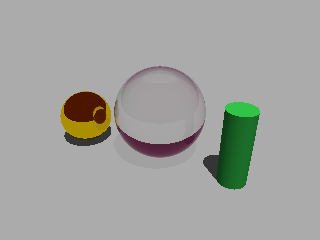
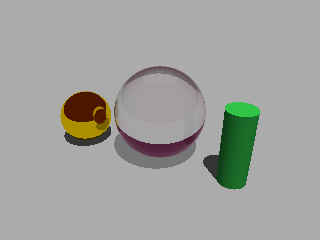
fix: without caustics, the shadow of glass keeps only the light that stays in it
Without caustics a shadow ray is a straight line, so the light a refractive object bends away
still landed in its shadow: on menger's level-2 glass sponge with a directional light a shadow ray
let 0.97 of the light an opaque sponge blocks into the shadow footprint (plain shadows) or 0.65
(transparent shadows), where pbrt-v4 returns 0.39. With caustics the photons carry that light; the
no-caustics shadow now approximates it.

A shadow ray to a light (not ambient occlusion, not the sky of an environment map) with caustics
off now passes glass, meaning a refractive (IOR above 1.05) object that is neither opaque nor a thin
film, in the shadow any-hit programs of spheres and triangle meshes, with plain shadows too, and is
charged the Fresnel and absorption losses of the transparent-shadows model and, once per ray,
GlassShadowConstants::RETENTION = 0.6 of what is left, the share that stays in the shadow. Without
transparent shadows the absorption is the mean over the channels (no colour, as before); a non-
refractive film or tint, an opaque object, caustics-on rays and cones, cylinders and curves keep their
shadows.

The constant is measured against pbrt-v4, not derived: its footprint fraction is 0.60 and 0.59 of the
straight line's on a level-2 sponge and a cube, 0.82 for a sphere. A sphere is a lens, its shadow
depends on where the focus falls relative to the floor (footprint 0.07 to 0.76 over three floor
[…]

Changed region(s): [[0.3438, 0.5542, 0.625, 0.7292], [0.375, 0.2625, 0.625, 0.3792], [0.2812, 0.4958, 0.3438, 0.5542]]

diff --git a/src/main/native/include/OptiXData.h b/src/main/native/include/OptiXData.h
@@ -44,6 +44,7 @@ namespace RayTracingConstants {
     constexpr float CONTINUATION_RAY_OFFSET = 0.001f;  // Offset to avoid self-intersection
     constexpr float SHADOW_RAY_OFFSET = 0.001f;        // Offset for shadow ray origin (avoid shadow acne)
     constexpr float SHADOW_MIN_TRANSMISSION = 1e-6f;   // Keeps a surface's optical depth finite
+    constexpr float SHADOW_OPAQUE_ALPHA_EPSILON = 1e-4f; // A material alpha this close to 1 casts a full shadow
     constexpr float FULLY_PRESENT_COVERAGE = 1.0f - 1e-4f; // From here an instance's coverage counts as 1 (opaque)
 
     // Color conversion (float [0,1] to byte [0,255])
@@ -154,6 +155,16 @@ namespace MaterialConstants {
     constexpr float IOR_REFRACTIVE_MIN = 1.05f;
 }
 
+// A refractive object's shadow without caustics (optix-jni#132)
+namespace GlassShadowConstants {
+    // The share of the light a refractive object lets through that stays inside its shadow;
+    // the rest is bent out of it, where a straight shadow ray cannot put it (caustics would).
+    // Measured against pbrt-v4: 0.60 on a level-2 glass sponge, 0.59 on a cube, 0.08 to 0.82 on a
+    // sphere (a lens: where its focus falls decides). Fixed, not per material: accepted by the user
+    // 2026-11-19 (lenses use caustics). See CHANGELOG, Unreleased.
+    constexpr float RETENTION = 0.6f;
+}
+
 // Default PBR material values, for surfaces given no material
 namespace MaterialDefaults {
     constexpr float DEFAULT_ROUGHNESS = 0.5f;  // Default middle roughness (0=mirror, 1=diffuse)
@@ -183,6 +194,10 @@ namespace SBTConstants {
 
     // Payload 3 of a shadow ray: flags, set by the tracer, read by the shadow programs
     constexpr unsigned int SHADOW_FLAG_PHOTON_LIGHT = 1u;  // The ray goes to the light caustic photons are emitted from
+    // The ray goes to a light with caustics off: glass bends part of that light out of the shadow
+    // (optix-jni#132), so a refractive occluder is charged for it (GlassShadowConstants::RETENTION)
+    constexpr unsigned int SHADOW_FLAG_GLASS_BENDS_LIGHT = 2u;
+    constexpr unsigned int SHADOW_FLAG_CROSSED_GLASS = 4u;  // Set by a shadow any-hit that crossed such glass
 
     // SBT indices
     constexpr unsigned int MISS_PRIMARY = 0;               // Primary ray miss shader

diff --git a/CHANGELOG.md b/CHANGELOG.md
@@ -5,6 +5,27 @@ All notable changes to this project will be documented in this file.
 The format is based on [Keep a Changelog](https://keepachangelog.com/en/1.0.0/),
 and this project adheres to [Semantic Versioning](https://semver.org/spec/v2.0.0.html).
 
+## [Unreleased]
+
+### Changed
+
+- With caustics off, the shadow of a refractive object (IOR above 1.05) is the physical one, not
+  the straight line's (lene/optix-jni#132). A shadow ray let 0.97 of the light an opaque level-2
+  glass sponge blocks through (plain shadows) or 0.65 (transparent shadows) where pbrt-v4 returns
+  0.39 into the shadow footprint, because the light glass bends away landed in the shadow anyway.
+  A shadow ray to a light now passes refractive objects (plain shadows too: the any-hit programs of
+  spheres and triangle meshes) and is charged their Fresnel and absorption losses, the transparent
+  shadows model, and once `GlassShadowConstants::RETENTION` = 0.6 of what is left: the share that
+  stays in the shadow; the rest was bent out of it, where only photons could say where it lands.
+  The constant is measured, not derived, and fixed (accepted by the user 2026-11-19; for lenses use caustics): pbrt returns 0.60 and 0.59 of the straight line's light
+  into the footprint of a level-2 sponge and a cube (0.82 for a sphere, which focuses the light:
+  its shadow depends on how far the floor is from the focus, 0.08 to 0.82, and no constant fits).
+  With caustics on nothing changes (the shadow to the photon light stays opaque, other lights and
+  ambient occlusion keep their shadows); ambient occlusion and image-based light keep their
+  transparent shadows; cones, cylinders and curves of glass are not covered yet. A flat glass
+  slab, which bends nothing out of its footprint, gets too dark a shadow without caustics (0.54
+  where Fresnel allows 0.9).
+
 ## [0.5.5] - 2026-11-17
 
 ### Fixed

diff --git a/test-resources/ambient-constant/README.md b/test-resources/ambient-constant/README.md
@@ -6,6 +6,11 @@
 
 GPU: NVIDIA RTX A1000 6GB Laptop GPU
 
+Exception: `glass-gold-cylinder.png` was re-rendered with the optix-jni change of optix-jni#132
+(the glass sphere's shadow without caustics is darker, 2093 of 76800 pixels differ around the
+sphere's shadow, by up to 43 levels); the constant ambient path itself did not change. It is the
+current renderer's output, not b13c283's.
+
 They are not tolerance-compared references: a change here means the constant path drifted. Byte
 equality holds on the GPU they were rendered on, named in the `GPU:` line above
 (`nvidia-smi --query-gpu=name --format=csv,noheader`); `AmbientOcclusionSuite` reads that line and
